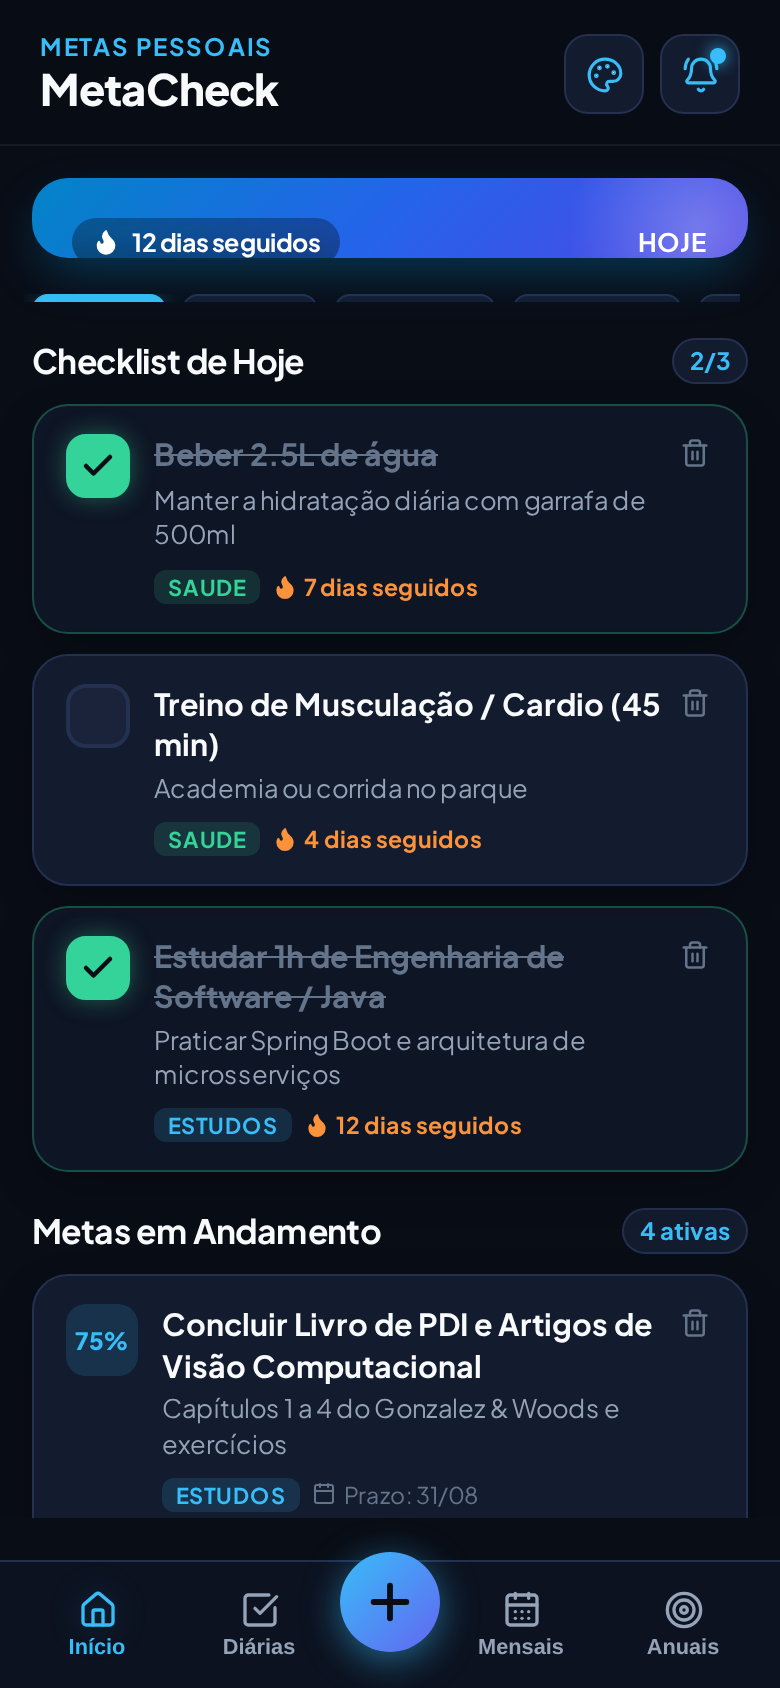
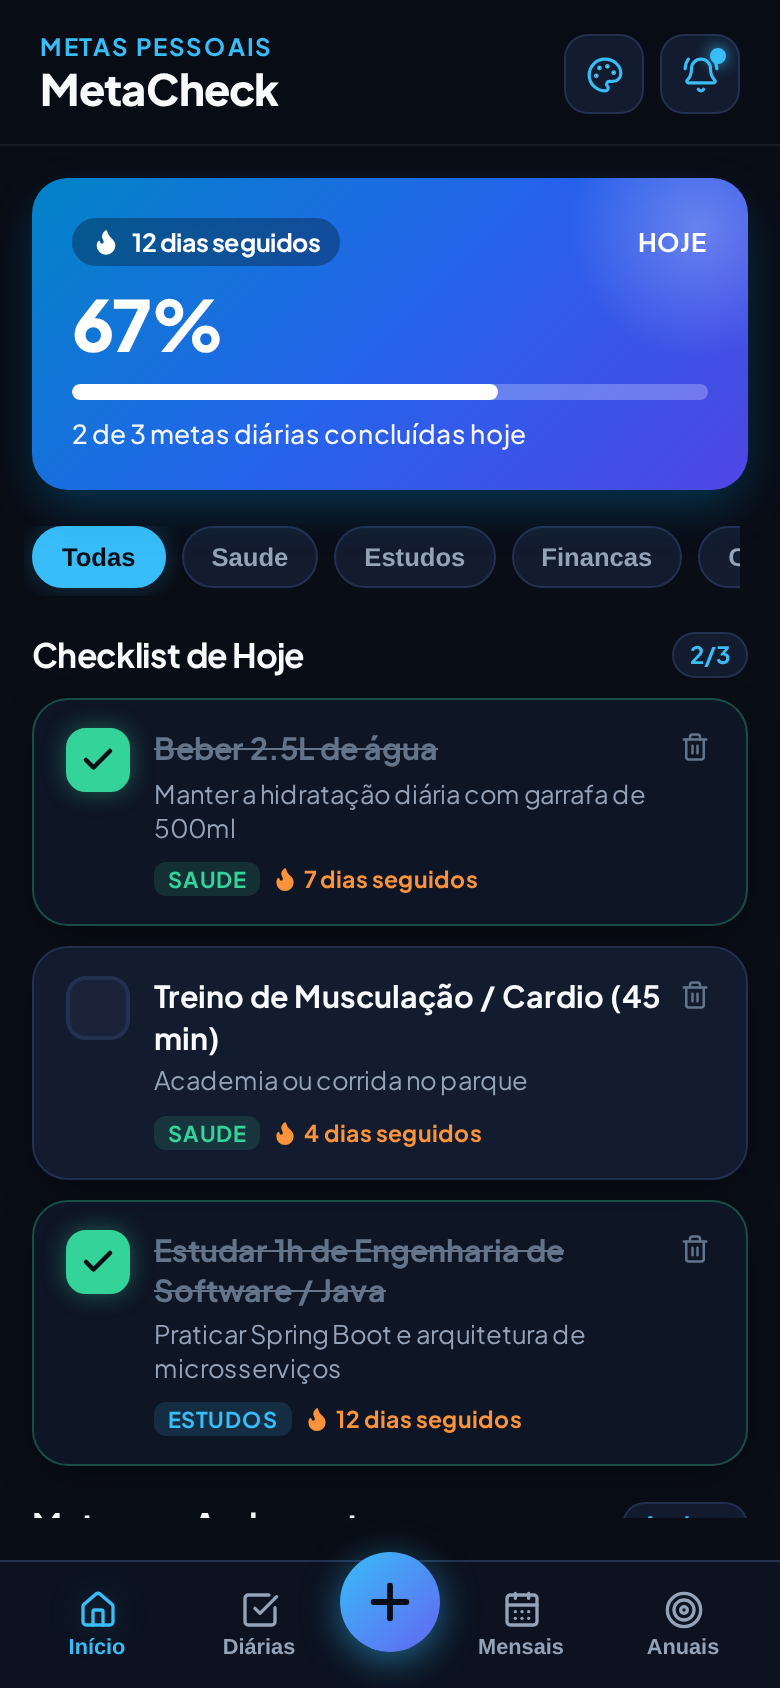
fix(layout): stop dashboard hero and filters from shrinking in flex column

Changed region(s): [[0.0308, 0.1232, 0.9846, 0.9242]]

diff --git a/src/index.css b/src/index.css
@@ -209,6 +209,10 @@ body {
   overflow-x: hidden;
 }
 
+.screen-content > * {
+  flex-shrink: 0;
+}
+
 /* Hero Banner Resumo */
 .hero-card {
   background: linear-gradient(135deg, #0284c7 0%, #2563eb 50%, #4f46e5 100%);

diff --git a/CHANGELOG.md b/CHANGELOG.md
@@ -4,6 +4,13 @@ Todas as alterações e versões deste projeto são documentadas neste arquivo.
 
 ---
 
+## [Não lançado]
+
+### Correções
+* **Topo da tela inicial cortado:** o card de sequência e a linha de filtros encolhiam dentro da coluna flex de altura fixa (`.screen-content`). Filhos agora usam `flex-shrink: 0`.
+
+---
+
 ## [1.1.0] — 2026-08-23
 
 ### 📱 Correções de Layout e Responsividade Mobile

diff --git a/README.md b/README.md
@@ -49,6 +49,5 @@ React 19 · TypeScript · Vite · Capacitor 7 · Lucide · canvas-confetti
 
 ## Próximos passos
 
-- [ ] Corrigir o card de sequência e a linha de filtros que ficam cortados no topo da tela inicial em telas estreitas
 - [ ] Testes para o cálculo de sequência e de progresso
 - [ ] Sincronização opcional entre aparelhos
